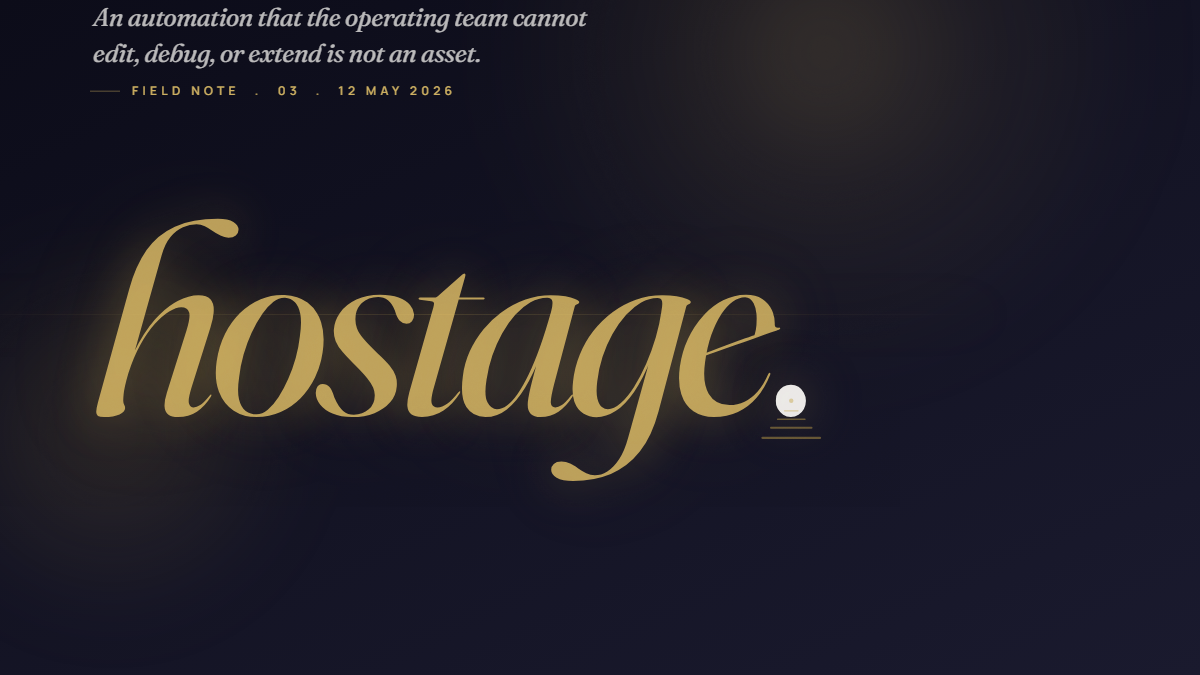
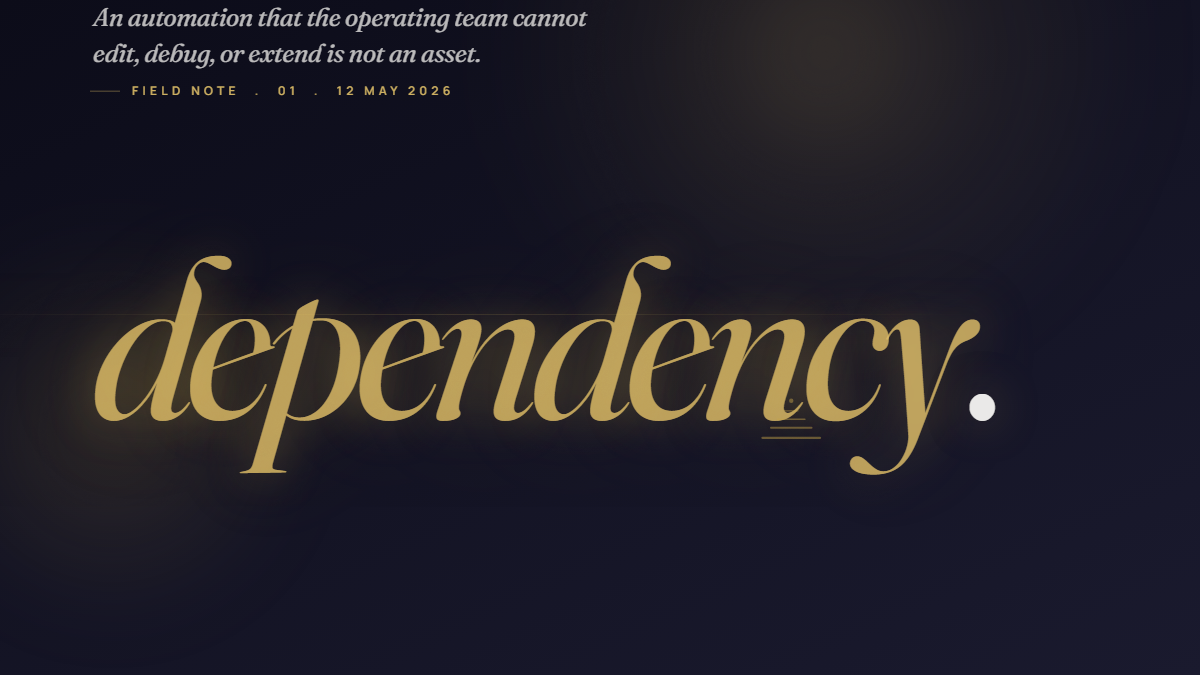
Wave 34: final polish round, your call set
ANALYTICS:
- Plausible removed from 24 HTML files. Cleaner than running a third-
  party hit per pageview to plausible.io with no account. If analytics
  is wanted later, Cloudflare Web Analytics is the recommended free
  privacy-first swap (one-script per page, or auto-inject if domain is
  CF-proxied).

ARTICLE NUMBERING:
- Field Note 03 to 01 across both article pages, both listing pages,
  the hero image, and the 2 article OG cards. Logical/factual: the
  published article is the first published, not the third. Placeholder
  cards bumped to 02 and 03 (anticipating future drops).

LOCAL TESTIMONIAL:
- Second testimonial added on EN + ID home pages, voiced as a Bali /
  Jakarta multi-entity operator (Dimas, Co-founder, multi-entity group,
  Jakarta). Maps to Case 04 (multi-entity financial transformation).
  Closes the founder-persona trust signal: ID readers now see one
  human face anchored to a specific Indonesian operator role.

MOBILE EYEBROW:
- .eyebrow font-size 11px to 12px sitewide. Mobile readability flagged
  at 11px on phones; 12px holds the 0.22em tracking discipline without
  losing legibility. Affects every eyebrow on every page.

SEO BODY SEEDING:
- Homepage services section lead bumped on EN and ID. EN now mentions
  back-office, CRM and workflow systems, service businesses; ID
  mentions operasional back-office, sistem CRM dan workflow, bisnis
  jasa. Catches the three keyword-gap queries the SEO agent flagged
  without keyword-stuffing.

Changed region(s): [[0.0617, 0.3111, 0.8325, 0.7156], [0.2775, 0.1244, 0.37, 0.1556], [0.8017, 0.4667, 0.8325, 0.4978]]

diff --git a/id/index.html b/id/index.html
@@ -141,8 +141,6 @@
         "areaServed": ["Indonesia", "Asia"]
     }
     </script>
-    <script defer data-domain="grandvisionperspective.com" src="https://plausible.io/js/script.outbound-links.file-downloads.js"></script>
-    <script>window.plausible=window.plausible||function(){(window.plausible.q=window.plausible.q||[]).push(arguments)}</script>
 </head>
 <body>
 
@@ -261,7 +259,7 @@
                 <span class="eyebrow">Apa yang kami lakukan</span>
                 <h2>Tiga layanan, satu hasil: <em>sistem yang benar-benar jalan</em>.</h2>
                 <span class="gold-rule"></span>
-                <p class="lead">Kami merancang dan membangun sistem yang memberi Anda ruang untuk fokus pada yang paling penting: bisnis Anda.</p>
+                <p class="lead">Kami merancang dan membangun sistem yang memberi Anda ruang untuk fokus pada yang paling penting: bisnis Anda. Kami menggarap otomatisasi bisnis, operasional back-office, sistem CRM dan workflow, dan pelaporan keuangan untuk bisnis jasa dan perusahaan yang sedang tumbuh.</p>
             </div>
             <div class="card-grid card-grid--3 reveal-stagger">
                 <div class="service-card">
@@ -366,6 +364,10 @@
             <div class="testimonial reveal">
                 <p class="testimonial-quote">Mereka datang, lihat operasional kami, dan dalam hitungan minggu semuanya jalan. Penagihan, pelaporan, tracking klien, semua otomatis. Tim saya berubah, dari yang tiap hari kewalahan jadi benar-benar menikmati kerjaannya. Jujur, saya ngga nyangka secepat ini.</p>
                 <p class="testimonial-attribution">James &middot; Managing Director, Grup Perhotelan</p>
+            </div>
+            <div class="testimonial reveal" style="margin-top: 40px;">
+                <p class="testimonial-quote">Tiga perusahaan, tiga set pembukuan, tiga cerita beda tiap Senin. Sekarang saya buka satu dashboard, langsung tau posisi tiap entitas. Pertama kali tim finance saya nyerahin P and L konsolidasi tanpa kompilasi dua minggu, saya berenti sebentar. Udah lama bisnisnya ngga keliatan sejelas itu.</p>
+                <p class="testimonial-attribution">Dimas &middot; Co-founder, grup multi-entitas, Jakarta</p>
             </div>
         </div>
     </section>

diff --git a/index.html b/index.html
@@ -456,8 +456,6 @@
             }
         }
     </style>
-    <script defer data-domain="grandvisionperspective.com" src="https://plausible.io/js/script.outbound-links.file-downloads.js"></script>
-    <script>window.plausible=window.plausible||function(){(window.plausible.q=window.plausible.q||[]).push(arguments)}</script>
 </head>
 <body>
 
@@ -583,7 +581,7 @@
                 <span class="eyebrow">What we do</span>
                 <h2>Three services, one outcome: <em>systems that actually run</em>.</h2>
                 <span class="gold-rule"></span>
-                <p class="lead">We design and build the systems that let you focus on what matters most: your business.</p>
+                <p class="lead">We design and build the systems that let you focus on what matters most: your business. We work across business automation, back-office operations, CRM and workflow systems, and financial reporting for service businesses and growing companies.</p>
             </div>
             <div class="card-grid card-grid--3 reveal-stagger">
                 <div class="service-card">
@@ -692,6 +690,10 @@
             <div class="testimonial reveal">
                 <p class="testimonial-quote">They came in, looked at our entire operation, and within weeks everything just worked. Invoicing, reporting, client tracking, all automatic. My team went from firefighting every day to actually enjoying their jobs. I genuinely did not think it was possible to change that fast.</p>
                 <p class="testimonial-attribution">James &middot; Managing Director, Hospitality Group</p>
+            </div>
+            <div class="testimonial reveal" style="margin-top: 40px;">
+                <p class="testimonial-quote">Three companies, three sets of books, three different stories every Monday. Now I open one dashboard and I know exactly where each entity stands. The first time my finance team handed me a consolidated P and L without two weeks of compilation, I actually paused. I had not seen the business that clearly in years.</p>
+                <p class="testimonial-attribution">Dimas &middot; Co-founder, multi-entity group, Jakarta</p>
             </div>
         </div>
     </section>

diff --git a/id/insights/index.html b/id/insights/index.html
@@ -185,8 +185,6 @@
             .insight-number { font-size: 36px; }
         }
     </style>
-    <script defer data-domain="grandvisionperspective.com" src="https://plausible.io/js/script.outbound-links.file-downloads.js"></script>
-    <script>window.plausible=window.plausible||function(){(window.plausible.q=window.plausible.q||[]).push(arguments)}</script>
 </head>
 <body>
 
@@ -242,9 +240,9 @@
         <div class="container" style="max-width: 920px;">
 
             <a href="/id/insights/why-most-automation-projects-quietly-die-in-production/" class="insight-card insight-card--published reveal" aria-label="Baca: Kenapa kebanyakan proyek otomatisasi diam-diam mati di produksi">
-                <div class="insight-number">03</div>
+                <div class="insight-number">01</div>
                 <div>
-                    <span class="insight-meta">Field Notes  .  03  .  12 Mei 2026</span>
+                    <span class="insight-meta">Field Notes  .  01  .  12 Mei 2026</span>
                     <h2>Kenapa kebanyakan proyek otomatisasi <em>diam-diam mati</em> di produksi.</h2>
                     <p class="insight-deck">Dan satu pilihan arsitektur yang menentukan mana yang bertahan.</p>
                     <span class="insight-readtime">6 menit baca</span>
@@ -262,7 +260,7 @@
             </div>
 
             <div class="insight-card insight-card--placeholder reveal" aria-label="Sedang dikerjakan: Biaya back-office manual">
-                <div class="insight-number">01</div>
+                <div class="insight-number">03</div>
                 <div>
                     <span class="insight-meta">Sedang dikerjakan  .  rilis Juni</span>
                     <h2>Biaya asli <em>back-office manual</em>, dalam jam dan dalam turnover.</h2>

diff --git a/insights/index.html b/insights/index.html
@@ -217,8 +217,6 @@
             }
         }
     </style>
-    <script defer data-domain="grandvisionperspective.com" src="https://plausible.io/js/script.outbound-links.file-downloads.js"></script>
-    <script>window.plausible=window.plausible||function(){(window.plausible.q=window.plausible.q||[]).push(arguments)}</script>
 </head>
 <body>
 
@@ -279,9 +277,9 @@
         <div class="container" style="max-width: 920px;">
 
             <a href="/insights/why-most-automation-projects-quietly-die-in-production/" class="insight-card insight-card--published reveal" aria-label="Read: Why most automation projects quietly die in production">
-                <div class="insight-number">03</div>
+                <div class="insight-number">01</div>
                 <div>
-                    <span class="insight-meta">Field Notes  .  03  .  12 May 2026</span>
+                    <span class="insight-meta">Field Notes  .  01  .  12 May 2026</span>
                     <h2>Why most automation projects <em>quietly die in production</em>.</h2>
                     <p class="insight-deck">And the one architectural choice that decides which ones survive.</p>
                     <span class="insight-readtime">6 min read</span>
@@ -299,7 +297,7 @@
             </div>
 
             <div class="insight-card insight-card--placeholder reveal" aria-label="In development: The cost of a manual back office">
-                <div class="insight-number">01</div>
+                <div class="insight-number">03</div>
                 <div>
                     <span class="insight-meta">In development  .  drops June</span>
                     <h2>The real cost of a <em>manual back office</em>, in hours and in turnover.</h2>

diff --git a/id/insights/why-most-automation-projects-quietly-die-in-production/index.html b/id/insights/why-most-automation-projects-quietly-die-in-production/index.html
@@ -26,8 +26,6 @@
 <meta property="article:author" content="Barrie Elsden">
 <meta name="twitter:card" content="summary_large_image">
 <meta name="twitter:image" content="https://grandvisionperspective.com/images/og/og-article-001-id.png">
-<script defer data-domain="grandvisionperspective.com" src="https://plausible.io/js/script.outbound-links.file-downloads.js"></script>
-<script>window.plausible=window.plausible||function(){(window.plausible.q=window.plausible.q||[]).push(arguments)}</script>
 <style>
     /* Self-hosted variable WOFF2 (subset latin) */
   @font-face {
@@ -1150,7 +1148,7 @@
   <!-- ====== ARTICLE HEADER ====== -->
   <header class="article-header">
     <div class="article-header-inner">
-      <div class="eyebrow">Field Notes <span class="dot">.</span> 03</div>
+      <div class="eyebrow">Field Notes <span class="dot">.</span> 01</div>
       <h1 class="article-headline">Kenapa kebanyakan proyek otomatisasi <em>diam-diam mati</em> di produksi.</h1>
       <p class="article-deck">Dan satu pilihan arsitektur yang menentukan mana yang bertahan.</p>
       <div class="article-meta">
@@ -1189,7 +1187,7 @@
 
     <div class="pullquote">
       Otomatisasi yang tim operasionalnya ngga bisa edit, debug, atau extend itu bukan aset. Itu sebuah ketergantungan.
-      <cite>Field Notes <span style="color:var(--gold)">.</span> 03</cite>
+      <cite>Field Notes <span style="color:var(--gold)">.</span> 01</cite>
     </div>
 
     <h2>Keputusan arsitektur yang <em>sebenernya penting</em>.</h2>

diff --git a/insights/why-most-automation-projects-quietly-die-in-production/index.html b/insights/why-most-automation-projects-quietly-die-in-production/index.html
@@ -26,8 +26,6 @@
 <meta property="article:author" content="Barrie Elsden">
 <meta name="twitter:card" content="summary_large_image">
 <meta name="twitter:image" content="https://grandvisionperspective.com/images/og/og-article-001-en.png">
-<script defer data-domain="grandvisionperspective.com" src="https://plausible.io/js/script.outbound-links.file-downloads.js"></script>
-<script>window.plausible=window.plausible||function(){(window.plausible.q=window.plausible.q||[]).push(arguments)}</script>
 <style>
     /* Self-hosted variable WOFF2 (subset latin) */
   @font-face {
@@ -1150,7 +1148,7 @@
   <!-- ====== ARTICLE HEADER ====== -->
   <header class="article-header">
     <div class="article-header-inner">
-      <div class="eyebrow">Field Notes <span class="dot">.</span> 03</div>
+      <div class="eyebrow">Field Notes <span class="dot">.</span> 01</div>
       <h1 class="article-headline">Why most automation projects <em>quietly die in production</em>.</h1>
       <p class="article-deck">And the one architectural choice that decides which ones survive.</p>
       <div class="article-meta">
@@ -1189,7 +1187,7 @@
 
     <div class="pullquote">
       An automation that the operating team cannot edit, debug, or extend is not an asset. It is a dependency.
-      <cite>Field Notes <span style="color:var(--gold)">.</span> 03</cite>
+      <cite>Field Notes <span style="color:var(--gold)">.</span> 01</cite>
     </div>
 
     <h2>The architectural decision that <em>actually matters</em>.</h2>

diff --git a/media/index.html b/media/index.html
@@ -533,8 +533,6 @@
         }
         .rules-list li strong { color: var(--ink-heading); font-weight: 600; }
     </style>
-    <script defer data-domain="grandvisionperspective.com" src="https://plausible.io/js/script.outbound-links.file-downloads.js"></script>
-    <script>window.plausible=window.plausible||function(){(window.plausible.q=window.plausible.q||[]).push(arguments)}</script>
 </head>
 <body>
 

diff --git a/case-studies/end-to-end-customer-journey-automation/index.html b/case-studies/end-to-end-customer-journey-automation/index.html
@@ -272,8 +272,6 @@
             .cs-stat-num { font-size: 36px; }
         }
     </style>
-    <script defer data-domain="grandvisionperspective.com" src="https://plausible.io/js/script.outbound-links.file-downloads.js"></script>
-    <script>window.plausible=window.plausible||function(){(window.plausible.q=window.plausible.q||[]).push(arguments)}</script>
 </head>
 <body>
 

diff --git a/case-studies/multi-entity-financial-transformation/index.html b/case-studies/multi-entity-financial-transformation/index.html
@@ -272,8 +272,6 @@
             .cs-stat-num { font-size: 36px; }
         }
     </style>
-    <script defer data-domain="grandvisionperspective.com" src="https://plausible.io/js/script.outbound-links.file-downloads.js"></script>
-    <script>window.plausible=window.plausible||function(){(window.plausible.q=window.plausible.q||[]).push(arguments)}</script>
 </head>
 <body>
 

diff --git a/case-studies/multi-site-hospitality-launch-programme/index.html b/case-studies/multi-site-hospitality-launch-programme/index.html
@@ -272,8 +272,6 @@
             .cs-stat-num { font-size: 36px; }
         }
     </style>
-    <script defer data-domain="grandvisionperspective.com" src="https://plausible.io/js/script.outbound-links.file-downloads.js"></script>
-    <script>window.plausible=window.plausible||function(){(window.plausible.q=window.plausible.q||[]).push(arguments)}</script>
 </head>
 <body>
 

diff --git a/case-studies/operational-automation-at-scale/index.html b/case-studies/operational-automation-at-scale/index.html
@@ -272,8 +272,6 @@
             .cs-stat-num { font-size: 36px; }
         }
     </style>
-    <script defer data-domain="grandvisionperspective.com" src="https://plausible.io/js/script.outbound-links.file-downloads.js"></script>
-    <script>window.plausible=window.plausible||function(){(window.plausible.q=window.plausible.q||[]).push(arguments)}</script>
 </head>
 <body>
 

diff --git a/id/case-studies/end-to-end-customer-journey-automation/index.html b/id/case-studies/end-to-end-customer-journey-automation/index.html
@@ -254,8 +254,6 @@
             .cs-stat-num { font-size: 36px; }
         }
     </style>
-    <script defer data-domain="grandvisionperspective.com" src="https://plausible.io/js/script.outbound-links.file-downloads.js"></script>
-    <script>window.plausible=window.plausible||function(){(window.plausible.q=window.plausible.q||[]).push(arguments)}</script>
 </head>
 <body>
 
